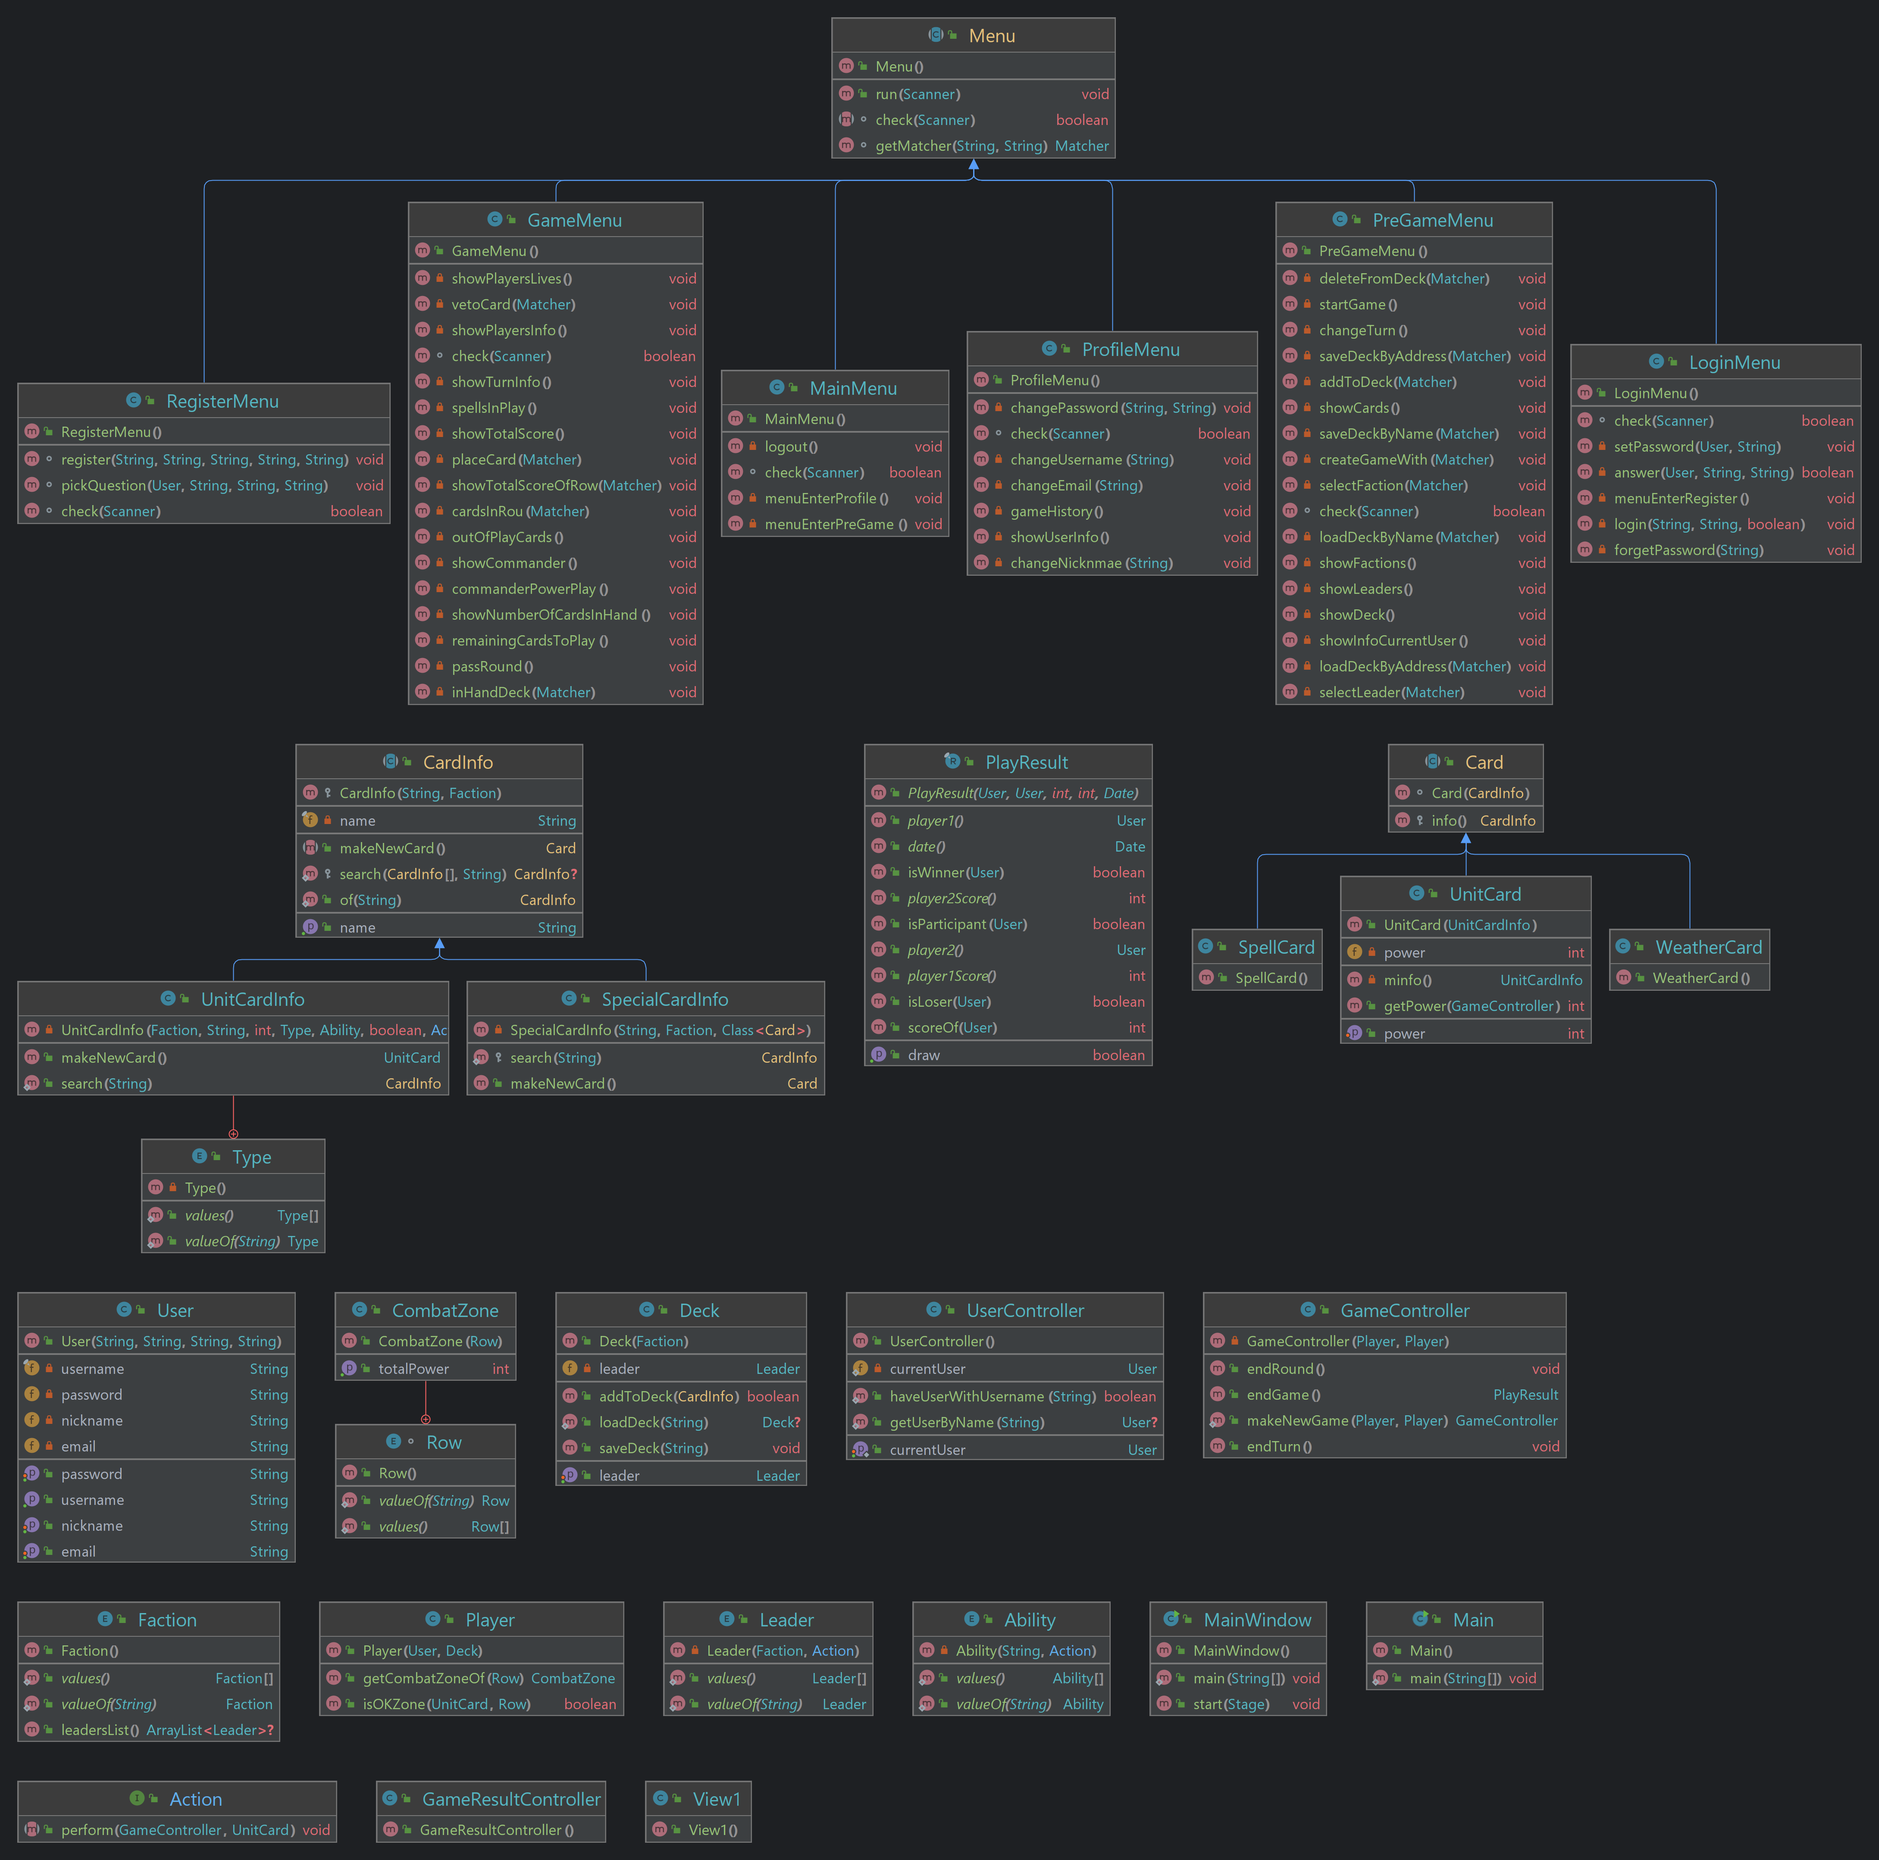
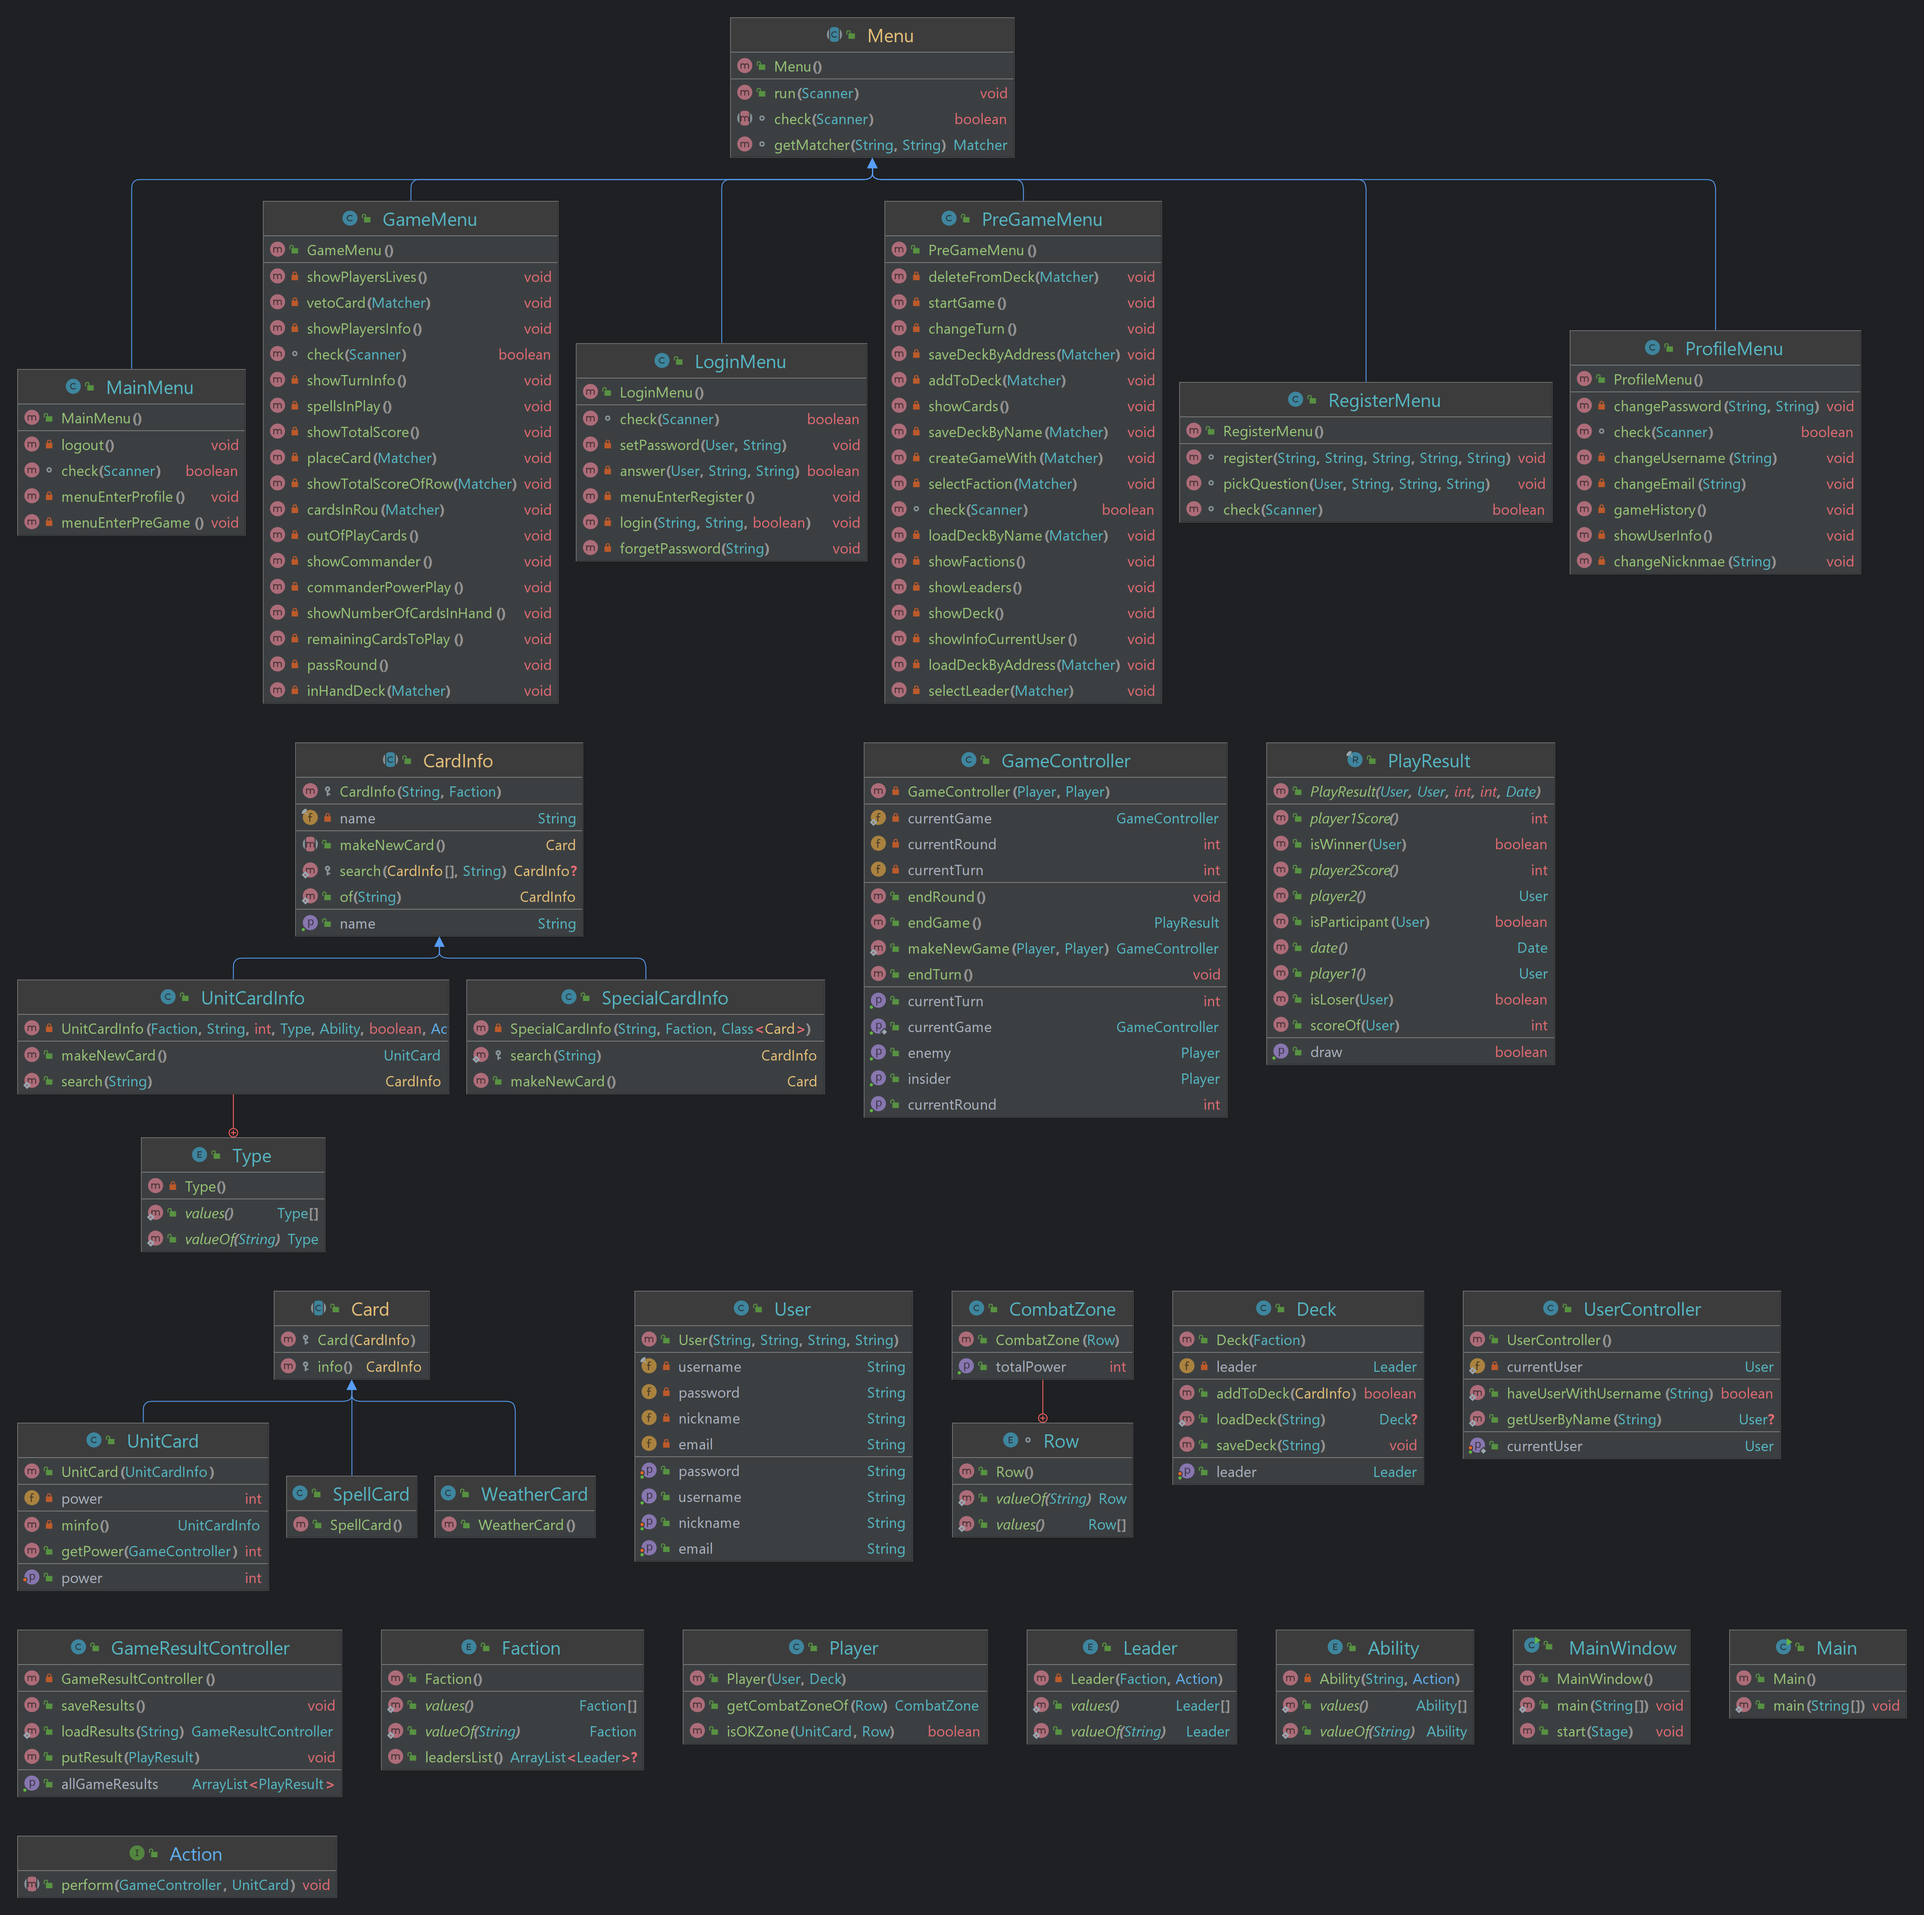
Some Update UML

diff --git a/src/main/java/org/apgrp10/gwent/controller/GameController.java b/src/main/java/org/apgrp10/gwent/controller/GameController.java
@@ -5,10 +5,11 @@ import org.apgrp10.gwent.model.Player;
 
 public class GameController
 {
+	private static GameController currentGame;
+	private PlayResult[] roundsResult = new PlayResult[3];
 	private Player player1, player2;
 	private int currentTurn; // currentTurn%2 == 0 -> Player1 / currentTurn%2 == 1 -> Player2
 	private int currentRound;
-	public PlayResult[] roundsResult  = new PlayResult[3];
 	
 	private GameController(Player player1, Player player2)
 	{
@@ -19,9 +20,14 @@ public class GameController
 	
 	public static GameController makeNewGame(Player player1, Player player2)
 	{
-		return new GameController(player1, player2);
+		currentGame = new GameController(player1, player2);
+		return currentGame;
 	}
 	
+	public static GameController getCurrentGame()
+	{
+		return currentGame;
+	}
 	
 	public PlayResult endGame()
 	{
@@ -36,5 +42,25 @@ public class GameController
 	public void endRound()
 	{
 	
+	}
+	
+	public Player getInsider()
+	{
+		return (currentTurn % 2 == 0) ? player1 : player2;
+	}
+	
+	public Player getEnemy()
+	{
+		return (currentTurn % 2 == 0) ? player2 : player1;
+	}
+	
+	public int getCurrentTurn()
+	{
+		return currentTurn;
+	}
+	
+	public int getCurrentRound()
+	{
+		return currentRound;
 	}
 }

diff --git a/src/main/java/org/apgrp10/gwent/model/card/SpecialCardInfo.java b/src/main/java/org/apgrp10/gwent/model/card/SpecialCardInfo.java
@@ -1,16 +1,18 @@
-package org.apgrp10.gwent.model;
+package org.apgrp10.gwent.model.card;
 
-import org.apgrp10.gwent.controller.CardInfo;
+import org.apgrp10.gwent.model.Faction;
 
 public class SpecialCardInfo extends CardInfo
 {
+	private Class<? extends Card> type;
 	private static final SpecialCardInfo[] allCards = {
-		new SpecialCardInfo("", Faction.Monsters, WeatherCard.class)
+			new SpecialCardInfo("", Faction.Monsters, WeatherCard.class)
 	};
 	
 	private SpecialCardInfo(String name, Faction faction, Class<? extends Card> type)
 	{
 		super(name, faction);
+		this.type = type;
 	}
 	
 	protected static CardInfo search(String cardname)

diff --git a/src/main/java/org/apgrp10/gwent/controller/GameResultController.java b/src/main/java/org/apgrp10/gwent/controller/GameResultController.java
@@ -6,7 +6,31 @@ import java.util.ArrayList;
 
 public class GameResultController
 {
+	private String fileName;
 	private final ArrayList<PlayResult> allGames = new ArrayList<>();
 	
+	private GameResultController() {}
 	
+	public static GameResultController loadResults(String filename)
+	{
+		GameResultController rC = new GameResultController();
+		rC.fileName = filename;
+		// rC.allGames.add();
+		return rC;
+	}
+	
+	public void saveResults()
+	{
+	
+	}
+	
+	public void putResult(PlayResult result)
+	{
+	
+	}
+	
+	public ArrayList<PlayResult> getAllGameResults()
+	{
+		return allGames;
+	}
 }

diff --git a/src/main/java/org/apgrp10/gwent/model/card/UnitCardInfo.java b/src/main/java/org/apgrp10/gwent/model/card/UnitCardInfo.java
@@ -1,6 +1,8 @@
-package org.apgrp10.gwent.model;
+package org.apgrp10.gwent.model.card;
 
-import org.apgrp10.gwent.controller.CardInfo;
+import org.apgrp10.gwent.model.Ability;
+import org.apgrp10.gwent.model.Action;
+import org.apgrp10.gwent.model.Faction;
 
 public class UnitCardInfo extends CardInfo
 {

diff --git a/src/main/java/org/apgrp10/gwent/model/card/CardInfo.java b/src/main/java/org/apgrp10/gwent/model/card/CardInfo.java
@@ -1,9 +1,6 @@
-package org.apgrp10.gwent.controller;
+package org.apgrp10.gwent.model.card;
 
-import org.apgrp10.gwent.model.Card;
 import org.apgrp10.gwent.model.Faction;
-import org.apgrp10.gwent.model.SpecialCardInfo;
-import org.apgrp10.gwent.model.UnitCardInfo;
 
 public abstract class CardInfo
 {

diff --git a/src/main/java/org/apgrp10/gwent/model/card/Card.java b/src/main/java/org/apgrp10/gwent/model/card/Card.java
@@ -1,12 +1,10 @@
-package org.apgrp10.gwent.model;
-
-import org.apgrp10.gwent.controller.CardInfo;
+package org.apgrp10.gwent.model.card;
 
 public abstract class Card
 {
 	private final CardInfo info;
 	
-	Card(CardInfo info)
+	protected Card(CardInfo info)
 	{
 		this.info = info;
 	}

diff --git a/src/main/java/org/apgrp10/gwent/model/Deck.java b/src/main/java/org/apgrp10/gwent/model/Deck.java
@@ -1,6 +1,7 @@
 package org.apgrp10.gwent.model;
 
-import org.apgrp10.gwent.controller.CardInfo;
+import org.apgrp10.gwent.model.card.CardInfo;
+import org.apgrp10.gwent.model.card.Card;
 
 import java.io.Serializable;
 import java.util.ArrayList;

diff --git a/src/main/java/org/apgrp10/gwent/model/CombatZone.java b/src/main/java/org/apgrp10/gwent/model/CombatZone.java
@@ -1,5 +1,8 @@
 package org.apgrp10.gwent.model;
 
+import org.apgrp10.gwent.model.card.SpellCard;
+import org.apgrp10.gwent.model.card.UnitCard;
+
 import java.util.ArrayList;
 
 public class CombatZone

diff --git a/src/main/java/org/apgrp10/gwent/model/Player.java b/src/main/java/org/apgrp10/gwent/model/Player.java
@@ -1,5 +1,8 @@
 package org.apgrp10.gwent.model;
 
+import org.apgrp10.gwent.model.card.Card;
+import org.apgrp10.gwent.model.card.UnitCard;
+
 import java.util.ArrayList;
 
 public class Player

diff --git a/src/main/java/org/apgrp10/gwent/model/Action.java b/src/main/java/org/apgrp10/gwent/model/Action.java
@@ -1,6 +1,7 @@
 package org.apgrp10.gwent.model;
 
 import org.apgrp10.gwent.controller.GameController;
+import org.apgrp10.gwent.model.card.UnitCard;
 
 public interface Action
 {

diff --git a/src/main/java/org/apgrp10/gwent/model/card/UnitCard.java b/src/main/java/org/apgrp10/gwent/model/card/UnitCard.java
@@ -1,4 +1,4 @@
-package org.apgrp10.gwent.model;
+package org.apgrp10.gwent.model.card;
 
 import org.apgrp10.gwent.controller.GameController;
 

diff --git a/src/main/java/org/apgrp10/gwent/model/card/WeatherCard.java b/src/main/java/org/apgrp10/gwent/model/card/WeatherCard.java
@@ -1,4 +1,4 @@
-package org.apgrp10.gwent.model;
+package org.apgrp10.gwent.model.card;
 
 public class WeatherCard extends Card
 {
